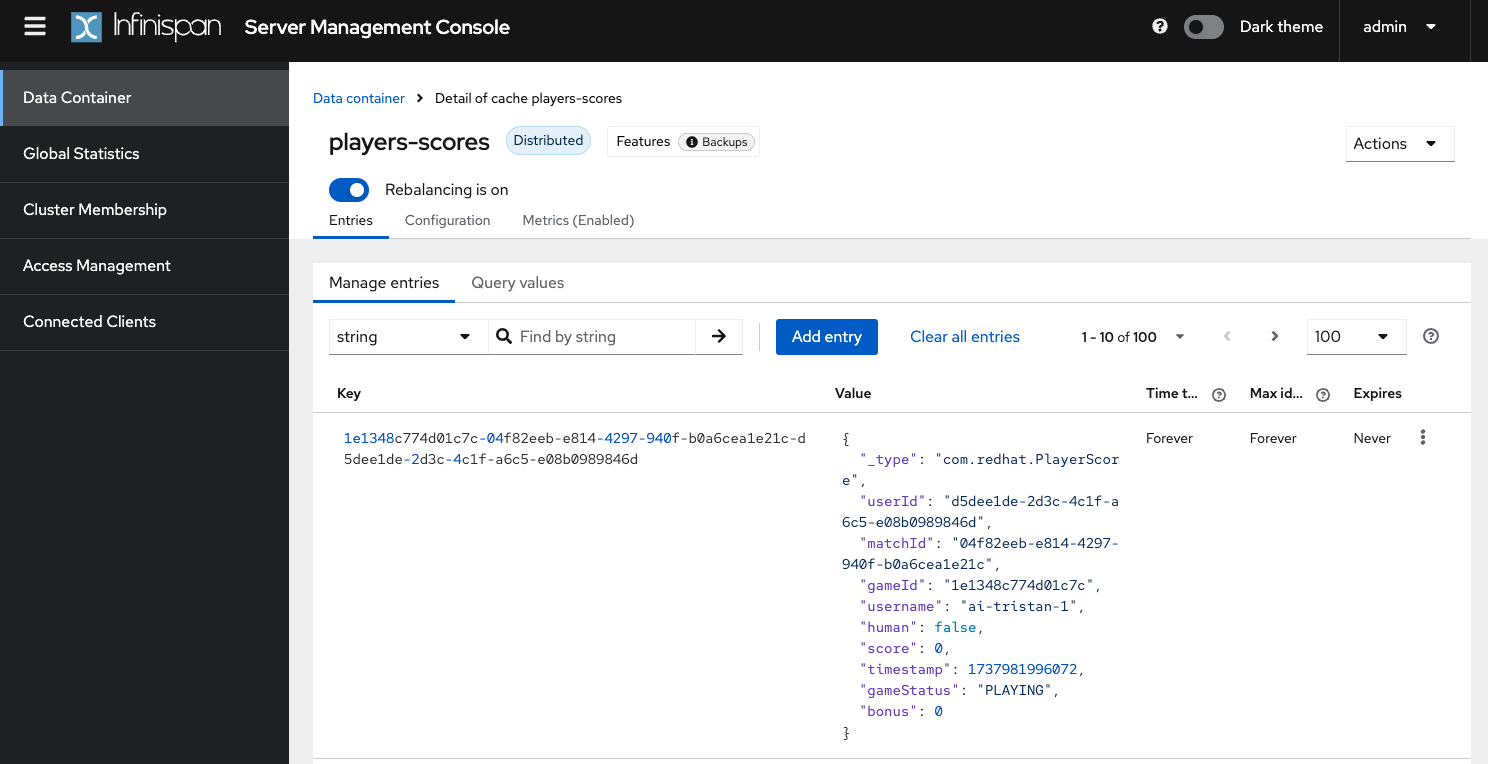
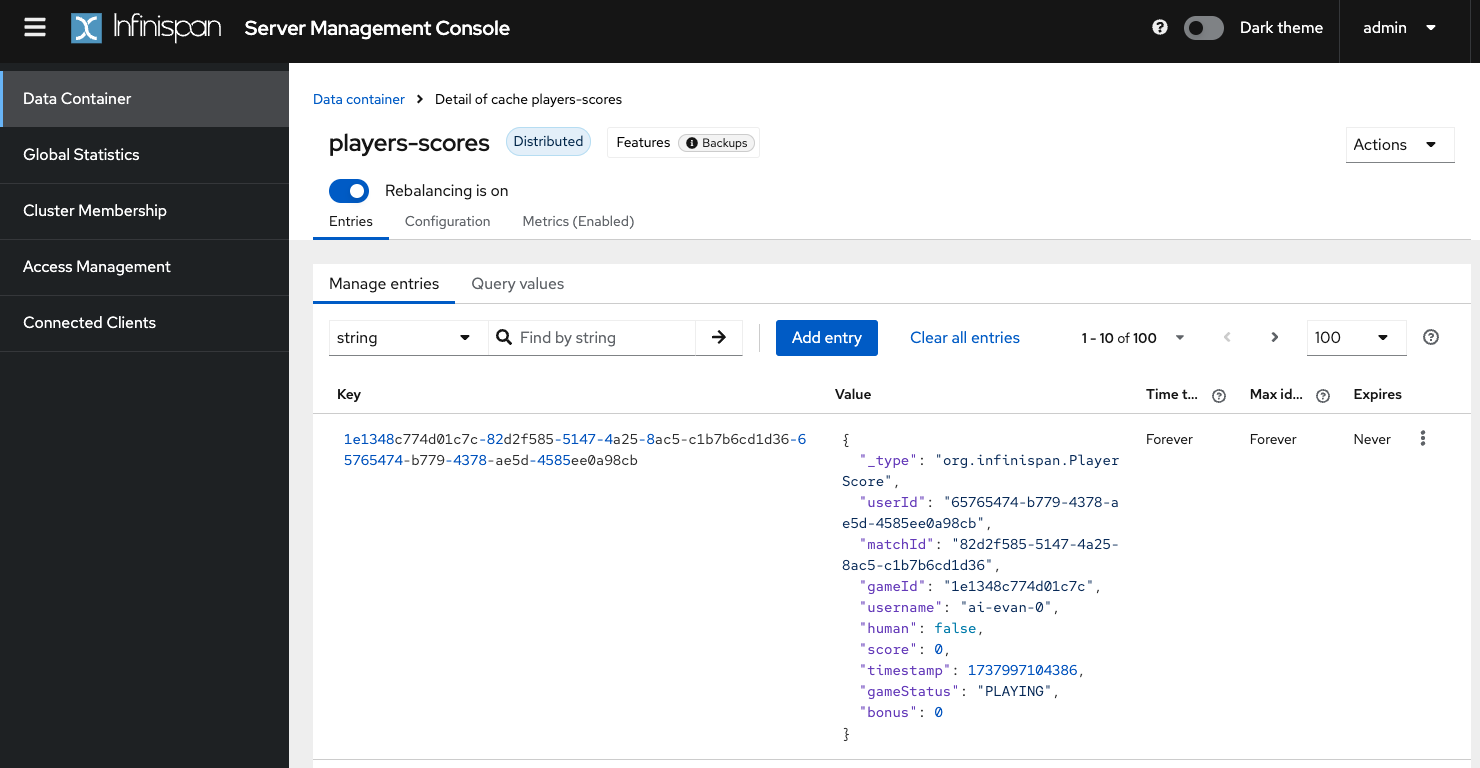
add console query

diff --git a/README.md b/README.md
@@ -43,6 +43,9 @@ You should be able to see in the console (LON and NYC):
 ```text
 select p.username, p.score from org.infinispan.PlayerScore p WHERE p.human=true ORDER BY p.score DESC, p.timestamp ASC
 ```
+
+![console-query.png](console-query.png)
+
 ## Testing Cross-Site Replication
 
 The app creates a cache in NYC, using active-active replication:
